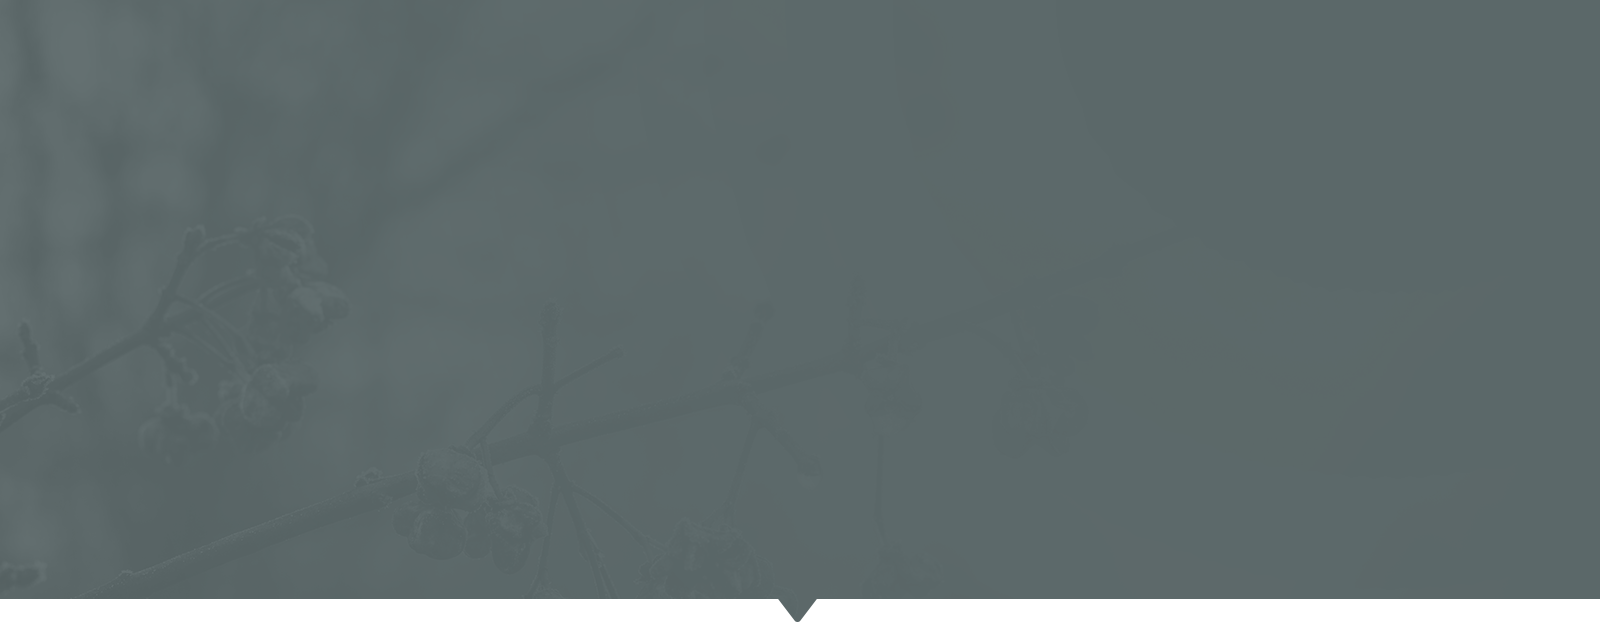
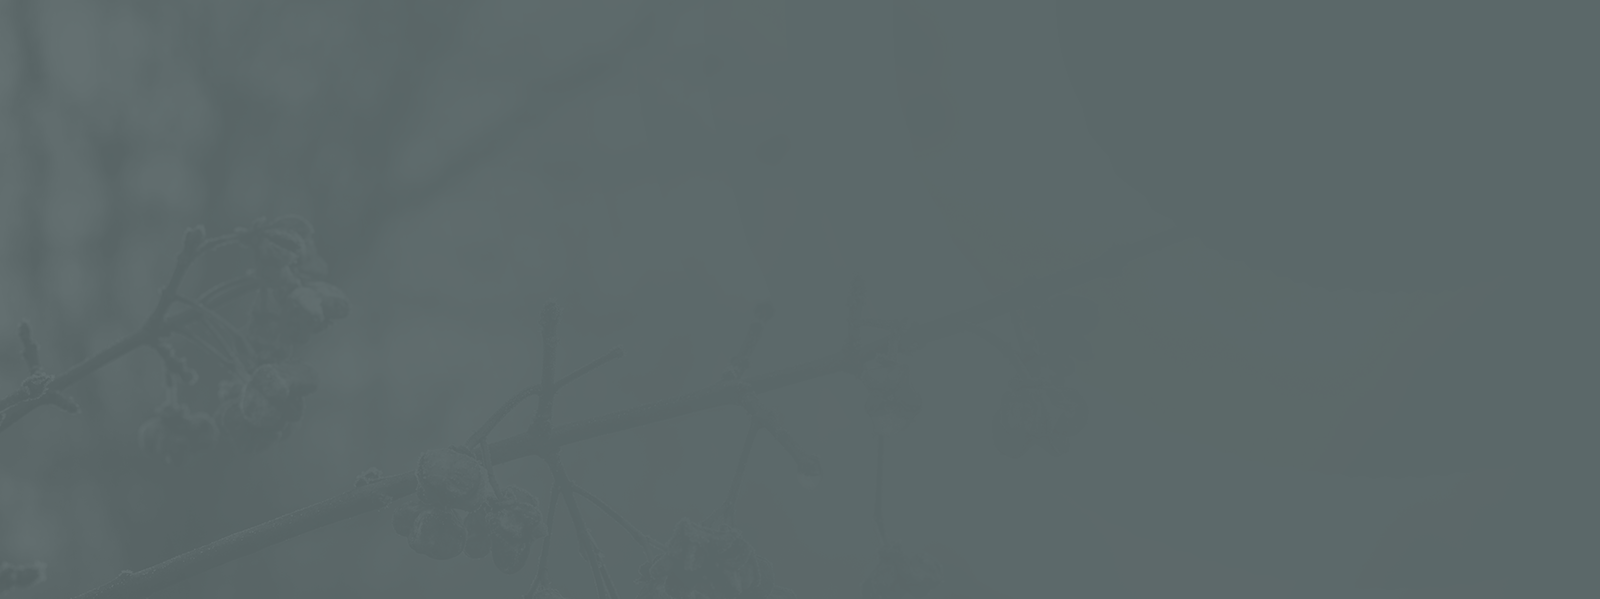
project2(final)

Changed region(s): [[0.0, 0.9616, 1.0, 1.0]]

diff --git a/My projects/Project#2/index.html b/My projects/Project#2/index.html
@@ -32,7 +32,7 @@
       </div>
     </header>
 
-    <section>
+    <section id="first">
       <div class="container">
         <div class="sec_con">
           <h1>
@@ -65,6 +65,66 @@
         <img src="images/point.png" alt="point" class="point">
       </div>
     </section>
+    <div class="tri"><div class="triangle"></div></div>
+    <section id="fourth">
+      <div class="container clearfix" style="position:relative;">
+        <div class="left col">
+          <h3>So dreamy</h3>
+          <p>
+            Minim veniam, quis nostrud exercitation ullamco laboris nisi ut aliquip ex ea<br>
+            commodo consequat. Duis aute irure dolor in reprehenderit in voluptate velit<br>
+            esse cillum dolore eu fugiat nulla pariatur. Excepteur sint occaecat cupidatat<br>
+            non proident, sunt in culpa qui officia deserunt mollit anim id est laborum.
+          </p>
+        </div>
+        <div class="right col">
+          <h3>more buzz words</h3>
+          <p>
+            Minim veniam, quis nostrud exercitation ullamco laboris nisi ut aliquip ex ea<br>
+            commodo consequat. Duis aute irure dolor in reprehenderit in voluptate velit<br>
+            esse cillum dolore eu fugiat nulla pariatur. Excepteur sint occaecat cupidatat<br>
+            non proident, sunt in culpa qui officia deserunt mollit anim id est laborum.
+          </p>
+        </div>
+        <div class="left col end">
+          <h3>apple store</h3>
+          <p>
+            Minim veniam, quis nostrud exercitation ullamco laboris nisi ut aliquip ex ea<br>
+            commodo consequat. Duis aute irure dolor in reprehenderit in voluptate velit<br>
+            esse cillum dolore eu fugiat nulla pariatur. Excepteur sint occaecat cupidatat<br>
+            non proident, sunt in culpa qui officia deserunt mollit anim id est laborum.
+          </p>
+        </div>
+        <div class="right col end">
+          <h3>Extra startup juice</h3>
+          <p>
+            Minim veniam, quis nostrud exercitation ullamco laboris nisi ut aliquip ex ea<br>
+            commodo consequat. Duis aute irure dolor in reprehenderit in voluptate velit<br>
+            esse cillum dolore eu fugiat nulla pariatur. Excepteur sint occaecat cupidatat<br>
+            non proident, sunt in culpa qui officia deserunt mollit anim id est laborum.
+          </p>
+        </div>
 
+          <a href="#" class="trydemo">Try Demo</a>
+
+      </div>
+    </section>
+
+    <section id="fiveth">
+      <div class="container clearfix">
+        <div class="box">
+        </div>
+        <div class="box">
+        </div>
+        <div class="boxlast">
+        </div>
+      </div>
+    </section>
+
+    <footer>
+      <div class="container">
+
+      </div>
+    </footer>
   </body>
 </html>

diff --git a/My projects/Project#2/css/style.css b/My projects/Project#2/css/style.css
@@ -1,6 +1,7 @@
 * {
   margin: 0;
   padding: 0;
+  box-sizing: border-box;
 }
 
 body {
@@ -35,16 +36,14 @@ header {
   color: #d0e7e9;
   font-size: 17px;
   line-height: 2em;
+  text-align: center;
 }
 
 .outer {
-  width: 300px;
-  height: 200px;
-  padding: 20px;
   position: absolute;
-  top: 50%; left: 50%;
-  margin-left: -170px; /* (width + padding)/2 */
-  margin-top: -120px; /* (height + padding)/2 */
+  top: 50%;
+  left: 50%;
+  transform: translate(-50%, -50%);
 }
 
 .start {
@@ -62,12 +61,9 @@ header {
 }
 
 .button__play {
-  box-sizing: border-box;
   margin-top: 75px;
   width: 100px;
   height: 100px;
-  margin-left: auto;
-  margin-right: auto;
   text-align: center;
   border: 10px solid white;
   border-radius: 100px;
@@ -77,7 +73,6 @@ header {
 
 .play {
   margin: 0 auto;
-  transform: skewX();
   transform: rotate(90deg);
   height: 0px;
   width: 0px;
@@ -87,7 +82,7 @@ header {
   border-radius: 3px;
 }
 
-section {
+#first {
   background: url(../images/iPad.png) no-repeat center top / cover;
   height: 750px;
 }
@@ -125,8 +120,21 @@ section {
 }
 
 #thirt {
-  height: 650x;
+  height: 650px;
   background: url(../images/thirt_sel.png) no-repeat center top / cover;
+}
+
+.tri {
+  width: 100%;
+  height: 25px;
+}
+.triangle {
+  height: 0;
+  width: 0;
+  margin: 0 auto;
+  border-top: 25px solid #5b6869;
+  border-right: 20px solid transparent;
+  border-left: 20px solid transparent;
 }
 
 .face {
@@ -145,6 +153,82 @@ section {
   margin-top: 100px;
 }
 
+#fourth {
+  height: 800px;
+  padding-top: 75px;
+}
+
+.clearfix::after {
+  content: "";
+  clear: both;
+  display: table;
+}
+
+.col {
+  padding: 0;
+  float: left;
+  width: 50%;
+  height: 230px;
+  padding-top: 20px;
+}
+
+.col > h3, p {
+  font-size: 15px;
+  text-align: left;
+  color: #7a8387;
+}
+.col > h3 {
+  text-transform: uppercase;
+  padding-bottom: 10px;
+}
+.col > p {
+  line-height: 1.5em;
+}
+
+.left {
+  padding-right: 70px;
+  border-right: 1px solid #7a8387;
+}
+.right {
+  padding-left: 70px;
+}
+.end {
+  height: 160px;
+  margin-bottom: 80px;
+}
+.trydemo {
+  position: absolute;
+  top: 540px;
+  left: 50%;
+  transform: translate(-50%);
+  display: block;
+  text-decoration: none;
+  color: white;
+  background-color: #f69679;
+  width: 181px;
+  height: 61px;
+  line-height: 61px;
+  font-size: 18px;
+  font-weight: bold;
+}
+
+#fiveth {
+  background-color: #f6f6f4;
+  height: 745px;
+}
+
+.box {
+  float: left;
+  width: 30%;
+  border: 1px solid red;
+  height: 490px;
+}
+.boxlast {
+  float: left;
+  width: 40%;
+  border: 1px solid red;
+  height: 170px;
+}
 
 
 
@@ -153,6 +237,12 @@ section {
 
 
 
+
+
+footer {
+  height: 690px;
+  background-color: #7accc8;
+}
 
 
 @font-face {
